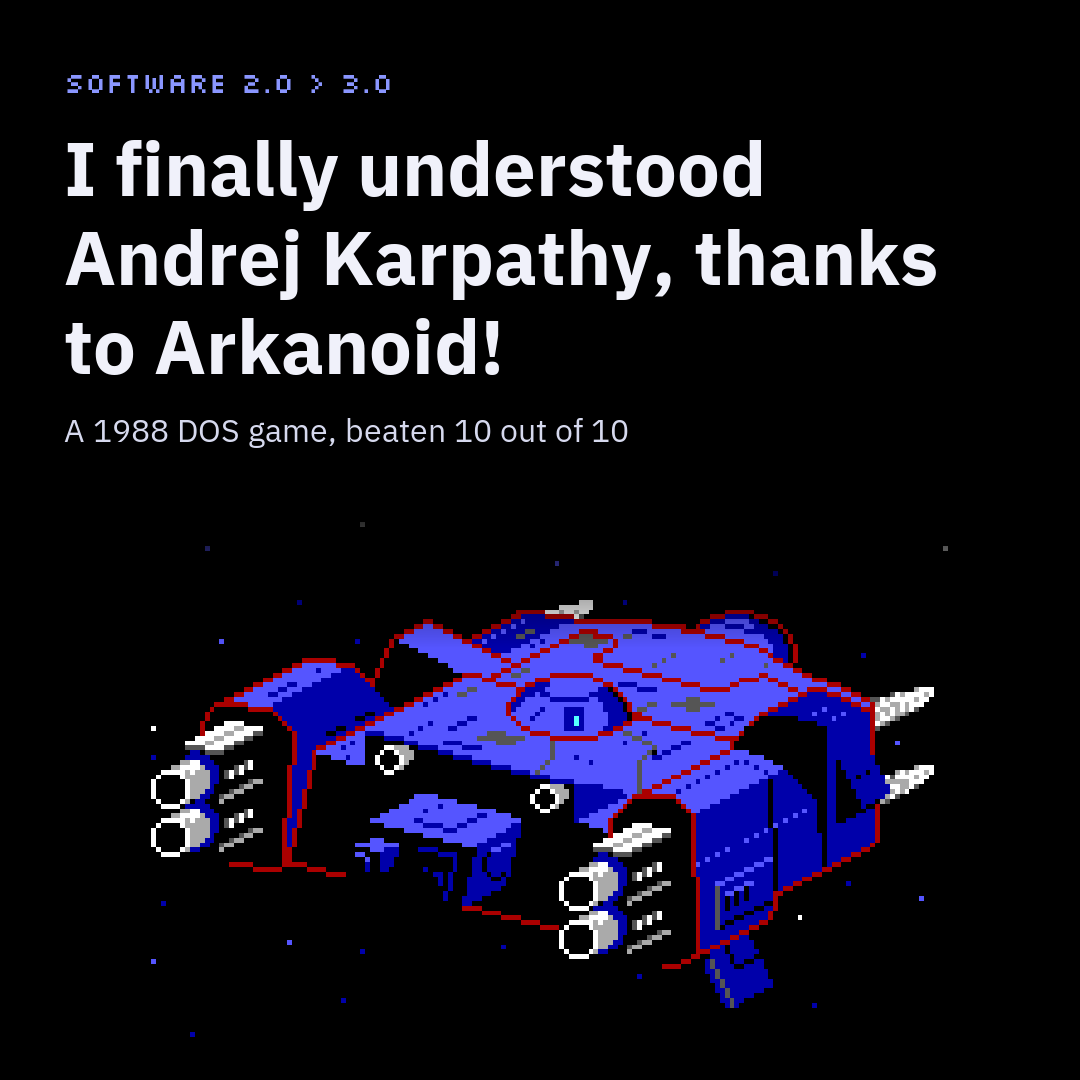
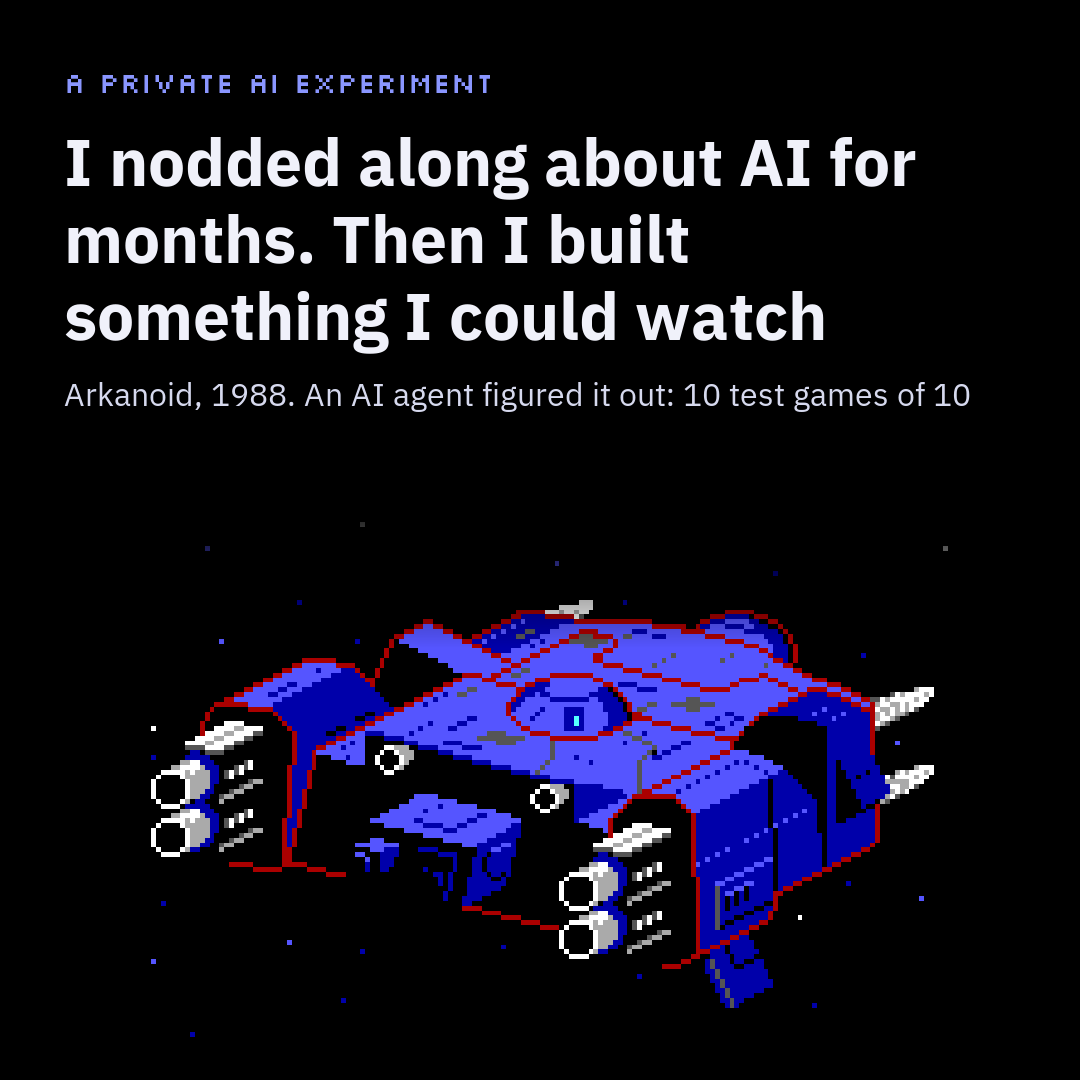
Covers: English headline updated to the LinkedIn frame from #4
cover-final-en and its square version now read 'I nodded along about AI
for months. Then I built something I could watch'; the English 'wrote'
covers are titled 'A goal in. A winning program out.' instead of the
Software 3.0 wording. Russian covers unchanged.

Claude-Session: https://claude.ai/code/session_01U2d8sNUBfNtSae4DrM3gZD

Changed region(s): [[0.0611, 0.1222, 0.8861, 0.4278], [0.0611, 0.0611, 0.4583, 0.0917]]

diff --git a/docs/article/covers/make_covers.py b/docs/article/covers/make_covers.py
@@ -50,7 +50,7 @@ def text_block(draw, xy, text, font, width, fill, spacing=1.18):
     return y
 
 
-def cover_final(name, size, headline, kicker, footer, text_w):
+def cover_final(name, size, headline, kicker, footer, text_w, hsize=None):
     W, H = size
     BG = (0, 0, 0)
     im = Image.new("RGB", size, BG)
@@ -78,7 +78,7 @@ def cover_final(name, size, headline, kicker, footer, text_w):
     d = ImageDraw.Draw(im)
     pad = 64
     d.text((pad, pad), kicker, font=pixel(28), fill=ACCENT)
-    y = text_block(d, (pad, pad + 54), headline, plex(54 if W > H else 76), text_w, INK)
+    y = text_block(d, (pad, pad + 54), headline, plex(hsize or (54 if W > H else 76)), text_w, INK)
     fy = H - pad - 26 if W > H else y + 24
     d.text((pad, fy), footer, font=plex(26 if W > H else 32, b"Regular"), fill=MUTED)
     im.save(OUT / name)
@@ -117,10 +117,10 @@ def badge(d, center, text, font):
 
 
 WROTE_TEXT = {
-    "en": dict(title="Software 3.0 wrote Software 1.0",
+    "en": dict(title="A goal in. A winning program out.",
                task="Figure out how to play and write a player program.",
                page="1 page of text", code="plain code, no LLM:", wins="10 wins of 10",
-               hook="I finally understood Andrej Karpathy, thanks to Arkanoid!"),
+               hook="I nodded along about AI for months. Then I built something I could watch."),
     "ru": dict(title="Software 3.0 написало Software 1.0",
                task="Разберись сам, как играть, и напиши программу-игрока.",
                page="1 страница текста", code="обычный код, без LLM:", wins="10 побед из 10",
@@ -170,14 +170,14 @@ def cover_wrote(name, size=(1200, 627), lang="en"):
 
 
 cover_final("cover-final-en.png", (1200, 627),
-            "I finally understood Andrej Karpathy, thanks to Arkanoid!",
-            "SOFTWARE 2.0 > 3.0", "A 1988 DOS game, beaten 10 out of 10 by an LLM-written player", 560)
+            "I nodded along about AI for months. Then I built something I could watch",
+            "A PRIVATE AI EXPERIMENT", "Arkanoid, 1988. An AI agent figured it out; its player won 10 test games of 10", 600, 50)
 cover_final("cover-final-ru.png", (1200, 627),
             "Наконец-то я понял Андрея Карпатого с\u00a0помощью Арканоида!",
             "SOFTWARE 2.0 > 3.0", "DOS-игра 1988 года, 10 побед из 10 у игрока, написанного LLM", 580)
 cover_final("cover-final-en-square.png", (1080, 1080),
-            "I finally understood Andrej Karpathy, thanks to Arkanoid!",
-            "SOFTWARE 2.0 > 3.0", "A 1988 DOS game, beaten 10 out of 10", 950)
+            "I nodded along about AI for months. Then I built something I could watch",
+            "A PRIVATE AI EXPERIMENT", "Arkanoid, 1988. An AI agent figured it out: 10 test games of 10", 950, 66)
 cover_split("cover-split-en.png")
 cover_wrote("cover-wrote-en.png")
 cover_wrote("cover-wrote-en-square.png", (1080, 1080))
